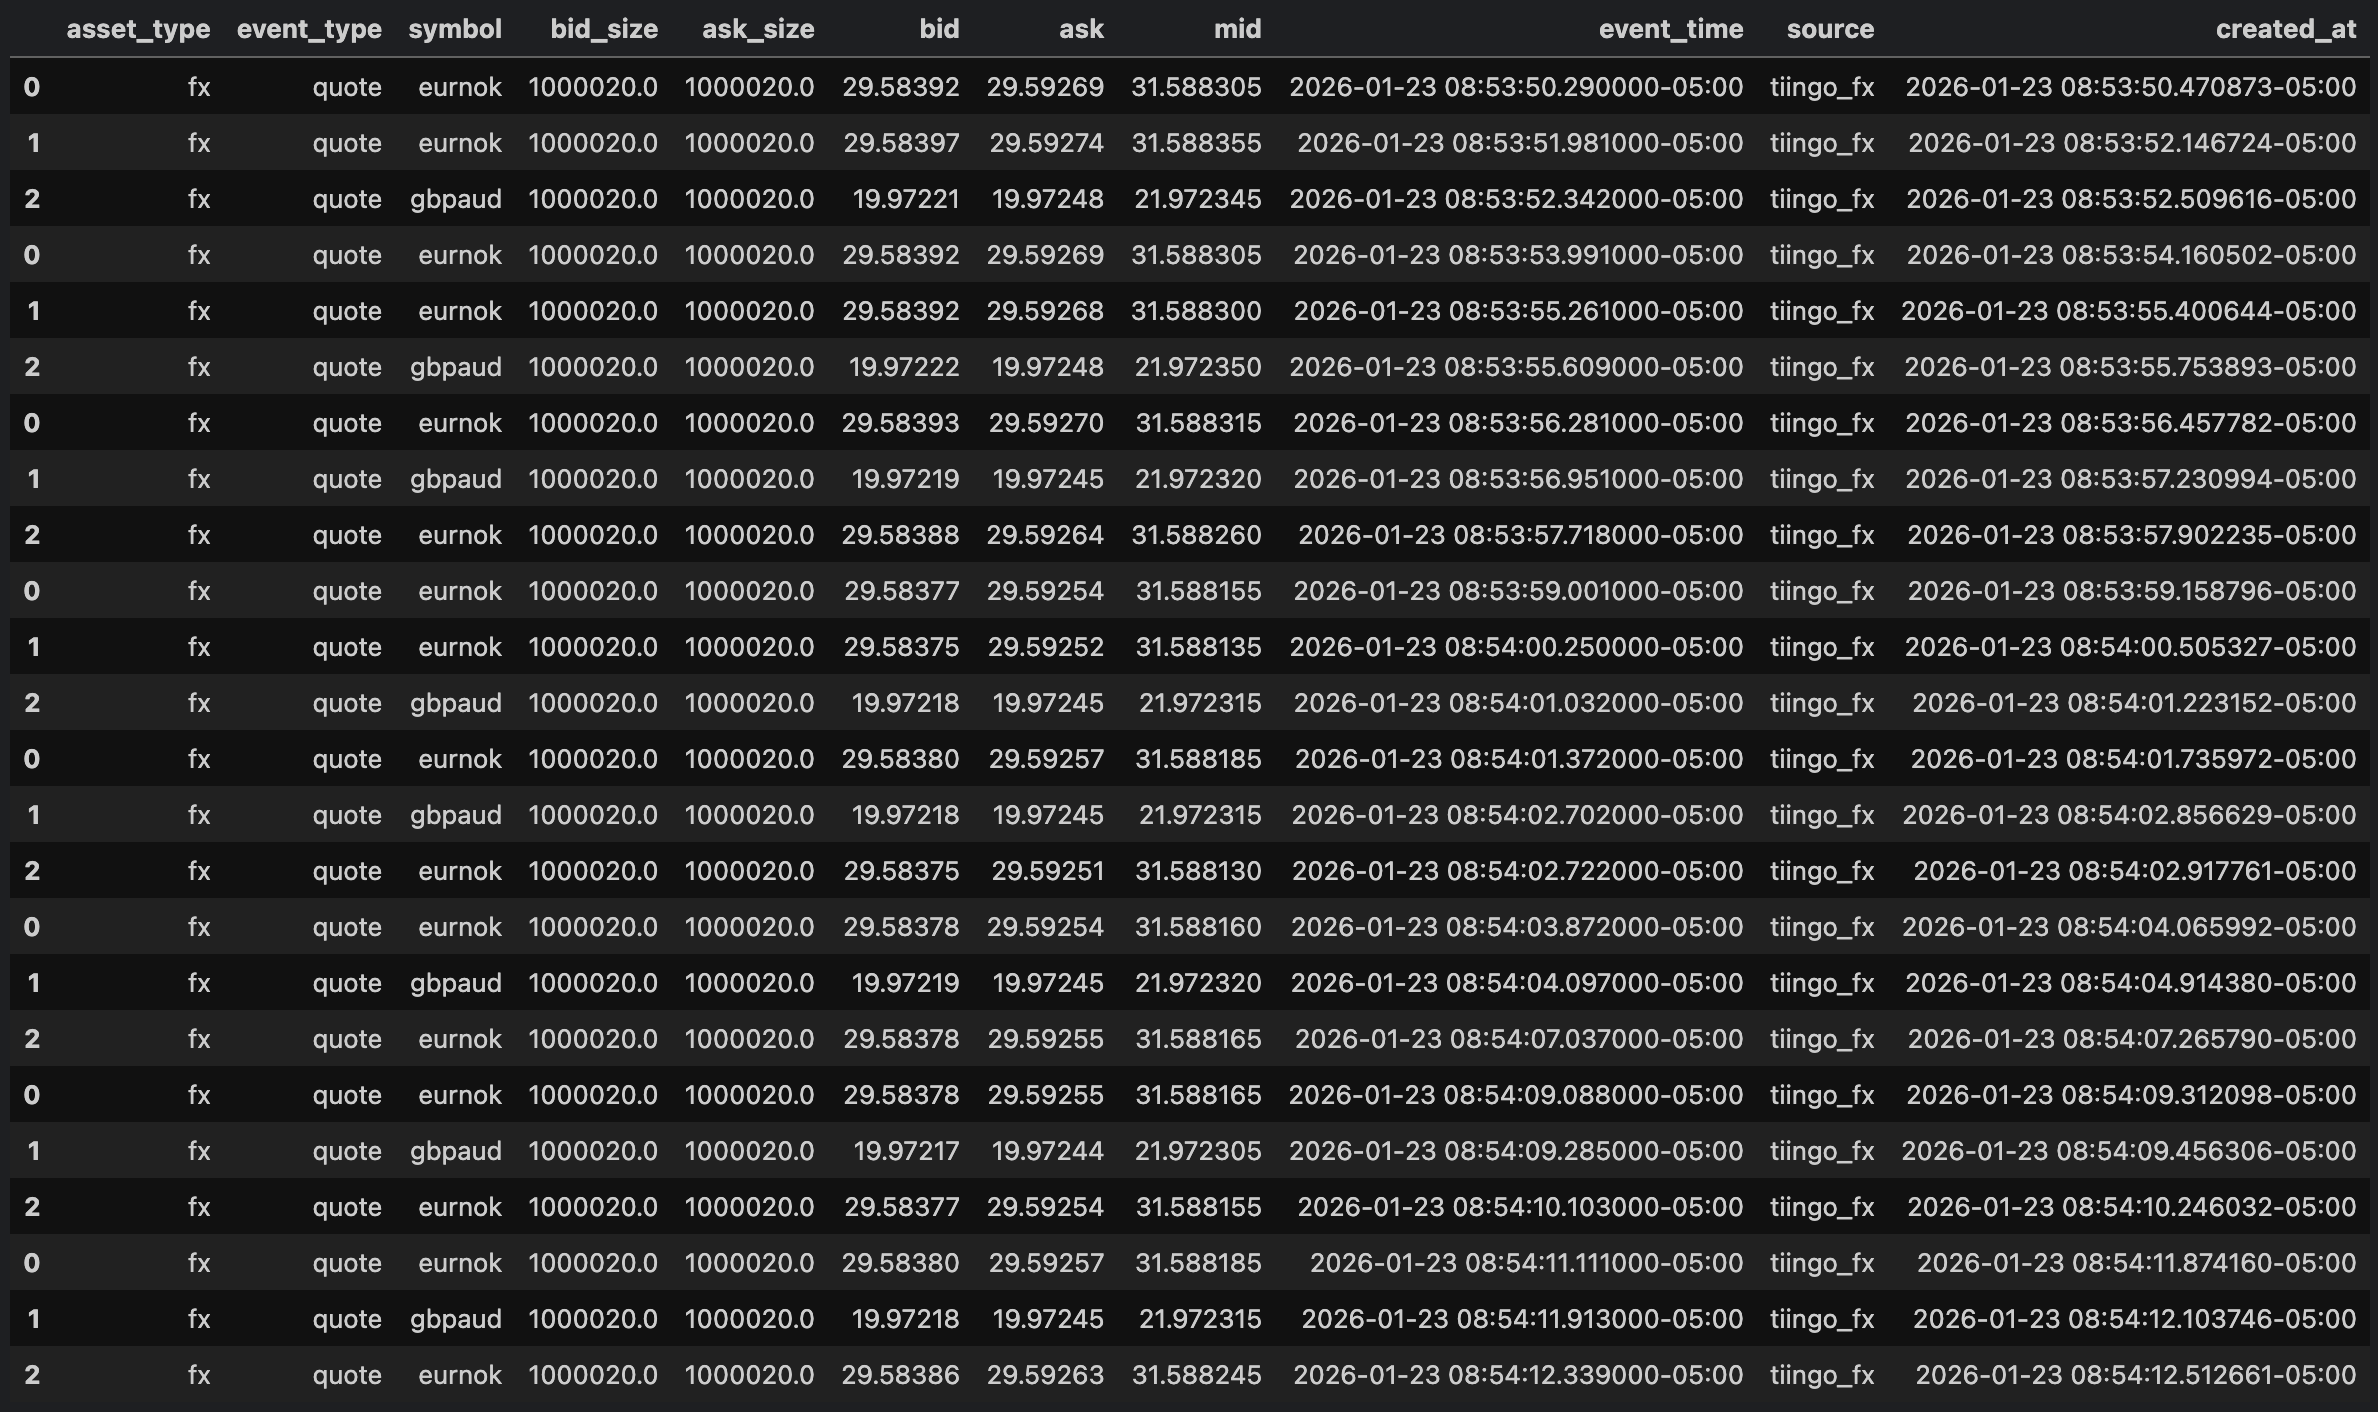
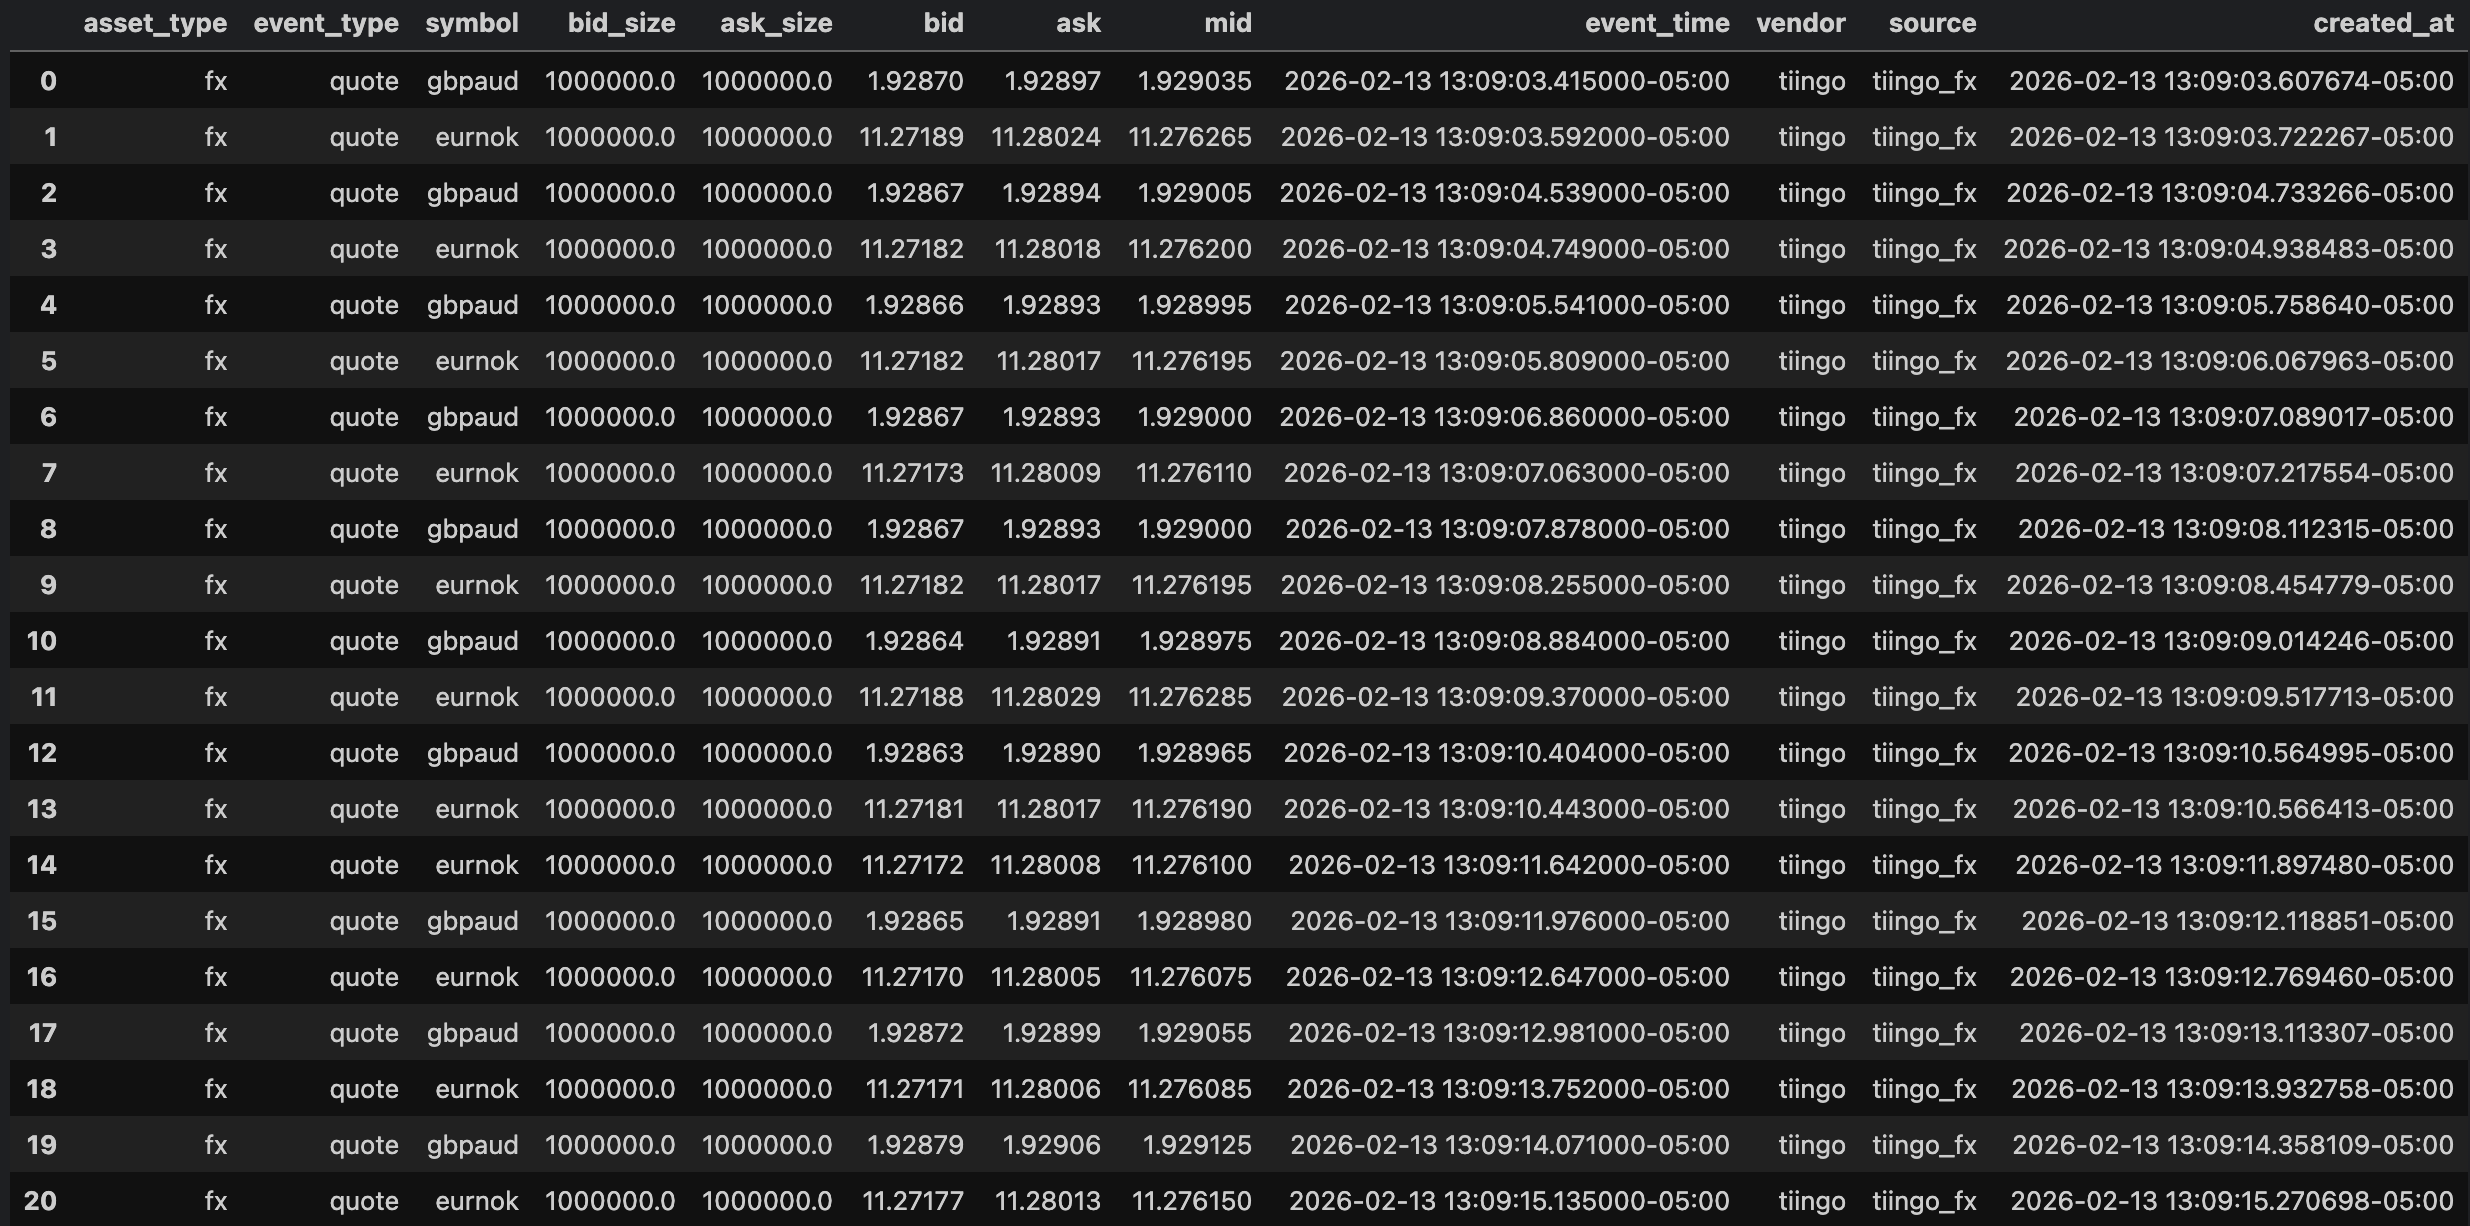
Use Parquet instead of HDF5 files. Remove dataframe usage. Update README file and assets

diff --git a/tests/core/test_raw_feed_consolidator.py b/tests/core/test_raw_feed_consolidator.py
@@ -1,47 +1,99 @@
+import os
 import unittest
 from unittest.mock import patch, AsyncMock, MagicMock
 import asyncio
-from src.core.raw_feed_consolidator import consolidate_queue, run_consolidator
+from src import constants
+from src.core.raw_feed_consolidator import consolidate_queue, run_consolidator, save_to_parquet
+
 
 class TestRawFeedConsolidator(unittest.IsolatedAsyncioTestCase):
 
+    @patch("src.core.raw_feed_consolidator.pq.write_table")
+    @patch("src.core.raw_feed_consolidator.dtt")
+    def test_save_to_parquet(self, mock_dtt, mock_write_table):
+        buffer = {
+            ("feed1", "AAPL", "2026-02-14T09:30:00"): {
+                "source": "feed1",
+                "symbol": "AAPL",
+                "event_time": "2026-02-14T09:30:00",
+                "price": 150
+            },
+            ("feed1", "GOOG", "2026-02-14T09:31:00"): {
+                "source": "feed1",
+                "symbol": "GOOG",
+                "event_time": "2026-02-14T09:31:00",
+                "price": 2700
+            }
+        }
+        pq_dir = "dummy_dir"
+        event_type = "trade"
+
+        mock_now = MagicMock()
+        mock_now.strftime.return_value = "20260214_093000_123456"
+        mock_dtt.now.return_value = mock_now
+        save_to_parquet(buffer, pq_dir, event_type)
+
+        self.assertEqual(mock_write_table.call_count, 1)
+        args, kwargs = mock_write_table.call_args
+        pq_fp = args[1]
+        self.assertIn("consol_feeds_trade_20260214_093000_123456.parquet", pq_fp)
+        self.assertTrue(kwargs["compression"] == "snappy")
+        self.assertEqual(len(buffer), 0)
+        self.assertTrue(os.path.exists(pq_dir) or True)  # safe check; actual dir may not be created in mock
+
     async def test_consolidate_queue(self):
         event_type = "trade"
-        data = {"price": 100, "volume": 10, "created_at": "ts"}
+        pq_dir = "dummy_dir"
+        buffer_size = 2
+
+        data1 = {
+            'asset_type': constants.ASSET_TYPE_STK,
+            'event_type': constants.EVENT_TYPE_REF_PX,
+            'symbol': 'AAPL',
+            'price': 10.735,
+            'vendor': 'tiingo',
+            'source': 'tiingo_iex',
+            'event_time': '2026-02-14T09:30:00',
+            'created_at': '2026-02-14T09:30:00'
+        }
+        data2 = {
+            'asset_type': constants.ASSET_TYPE_STK,
+            'event_type': constants.EVENT_TYPE_QUOTE,
+            'symbol': 'AAPL',
+            'price': 10.735,
+            'vendor': 'tiingo',
+            'source': 'tiingo_iex',
+            'event_time': '2026-02-14T09:30:00',
+            'created_at': '2026-02-14T09:30:00'
+        }
+        data3 = {
+            'asset_type': constants.ASSET_TYPE_STK,
+            'event_type': constants.EVENT_TYPE_QUOTE,
+            'symbol': 'GOOGL',
+            'price': 10.735,
+            'vendor': 'tiingo',
+            'source': 'tiingo_iex',
+            'event_time': '2026-02-14T09:30:00',
+            'created_at': '2026-02-14T09:30:00'
+        }
 
         mock_queue = AsyncMock()
         mock_queue.get = AsyncMock(side_effect=[
-            {"market_feed": data},
-            {"market_feed": data},
-            {"market_feed": data},
-            asyncio.CancelledError()  # Stop infinite loop
+            {"market_feed": data1},
+            {"market_feed": data2},
+            {"market_feed": data3},
+            asyncio.CancelledError()
         ])
         mock_queue.task_done = MagicMock()
-
-        with patch("src.core.raw_feed_consolidator.pd.DataFrame") as mock_df_class, \
-             patch("src.core.raw_feed_consolidator.dtt") as mock_datetime:
-
-            # Mock datetime
-            mock_now = MagicMock()
-            mock_now.strftime.return_value = "2026_01_01"
-            mock_datetime.now.return_value = mock_now
-
-            # Mock DataFrame instance
-            mock_df = MagicMock()
-            mock_df.columns.difference.return_value = []
-            mock_df.duplicated.return_value = []
-            mock_df.__getitem__.return_value = mock_df
-            mock_df.drop_duplicates.return_value = None
-            mock_df.to_hdf.return_value = None
-
-            mock_df_class.return_value = mock_df
+        with patch("src.core.raw_feed_consolidator.asyncio.to_thread") as mock_to_thread:
+            fut = asyncio.Future()
+            fut.set_result(None)
+            mock_to_thread.return_value = fut
 
             with self.assertRaises(asyncio.CancelledError):
-                await consolidate_queue(mock_queue, event_type, buffer_size=3)
+                await consolidate_queue(mock_queue, pq_dir=pq_dir, buffer_size=2, event_type=event_type)
 
-            mock_df_class.assert_called_once()
-            mock_df.to_hdf.assert_called_once()
-            self.assertTrue(mock_queue.task_done.called)
+            self.assertEqual(mock_to_thread.call_count, 1)
 
     async def test_run_consolidator(self):
         with patch("src.core.raw_feed_consolidator.asyncio.gather", new_callable=AsyncMock) as mock_gather:

diff --git a/src/core/raw_feed_consolidator.py b/src/core/raw_feed_consolidator.py
@@ -2,53 +2,66 @@
 Raw Feed Consolidator Module
 
 This module provides functions to consolidate market feed queues (trade, quote, reference price)
-into HDF5 files. Uses asyncio for asynchronous processing.
+into Pqrquet files. Uses asyncio for asynchronous processing.
 """
-
 import asyncio
-import pandas as pd
+import os
+from collections import defaultdict
+import pyarrow as pa
+import pyarrow.parquet as pq
 from datetime import datetime as dtt
-from src.constants import NY_TZ, EVENT_TYPE_TRADE, EVENT_TYPE_QUOTE, EVENT_TYPE_REF_PX
+
+from src import constants
+from src.constants import EVENT_TYPE_TRADE, EVENT_TYPE_QUOTE, EVENT_TYPE_REF_PX
 from src.core.queue_manager import trade_queue, quote_queue, ref_px_queue
 from src.logger import get_logger
 
 logger = get_logger(__name__)
 
-async def consolidate_queue(queue, event_type, h5_dir:str='src/data/consol_feeds/', buffer_size:int=3):
+def save_to_parquet(buffer: dict, pq_dir: str, event_type: str):
     """
-    Continuously consumes message from a queue and store them into a HDF5 file
+    Save buffered events to Parquet file
+    """
+    if not buffer:
+        logger.info("Buffer is empty, skipping save")
+        return
+    table = pa.Table.from_pylist(list(buffer.values()))
+    os.makedirs(pq_dir, exist_ok=True)
+
+    ny_time = dtt.now(constants.NY_TZ)
+    timestamp = ny_time.strftime("%Y%m%d_%H%M%S_%f")
+
+    pq_fp = os.path.join(pq_dir, f"consol_feeds_{event_type}_{timestamp}.parquet")
+    pq.write_table(table, pq_fp, compression='snappy')
+    logger.info(f'Successfully saved {len(buffer)} events to consolidated feeds file {pq_fp}')
+    buffer.clear()
+
+async def consolidate_queue(queue, event_type, pq_dir:str='src/data/consol_feeds/', buffer_size:int=30):
+    """
+    Continuously consumes message from a queue and store them into a Parquet file
     Buffers messages until buffer_size is reached, removes duplicates and
     appends data to a file named by event_type and current date
     """
     logger.info(f'Consolidating queue data for {event_type}')
-    buffer = []
+    buffers = defaultdict(dict)
 
     while True:
         try:
             data = (await queue.get())['market_feed']
             logger.debug(f'data:{data}')
-            now_ny = dtt.now(NY_TZ)
-            date_str = now_ny.strftime('%Y_%m_%d')
-            h5_fp = f'{h5_dir}consol_feeds_{event_type}_{date_str}.h5'
             if data is None:
                 logger.info('Skipping empty message')
                 continue
 
-            buffer.append(data)
-            logger.info(f'len(buffer) for {event_type}:{len(buffer)}')
+            key = (data['source'], data['symbol'], data['event_time'])
+            buffers[event_type][key] = data
+            logger.info(f'len(buffers[event_type]) for {event_type}:{len(buffers[event_type])}')
 
-            if len(buffer) >= buffer_size:
-                logger.info(f'Buffer size {len(buffer)} >= threshold {buffer_size}. Writing to {h5_fp}...')
-                df = pd.DataFrame(buffer)
-                cols_to_check = df.columns.difference(['created_at'])
-                df_dups = df[df.duplicated(subset=cols_to_check, keep=False)]
-                logger.info(f'duplicates:\n{df_dups}')
-                df.drop_duplicates(subset=cols_to_check, inplace=True)
-                df.to_hdf(h5_fp, key='mkt_feed', mode='a', format='table', append=True)
-                buffer.clear()
-                logger.info(f'Successfully updated {event_type} consolidated feeds file {h5_fp}')
+            if len(buffers[event_type]) >= buffer_size:
+                logger.info(f'Buffer size {len(buffers[event_type])} >= threshold {buffer_size}.')
+                await asyncio.to_thread(save_to_parquet, buffers[event_type], pq_dir, event_type)
         except Exception as e:
-            logger.error(f'Error saving to h5 file {e}')
+            logger.error(f'Error saving to parquet file {e}')
         finally:
             queue.task_done()
 

diff --git a/README.md b/README.md
@@ -2,7 +2,7 @@
 
 ## Description
 This project collects market data (stocks, ETFs, FX, crypto) from several vendors such as Tiingo, via websockets, webhooks (to be implemented) and async polling.\
-It performs simple data normalisation and writes consolidated event-driven feeds by event type (trade, quote, reference price) to HDF5 files for downstream analytics.
+It performs simple data normalisation and writes consolidated event-driven feeds by event type (trade, quote, reference price) to Parquet files for downstream analytics.
 
 ⚠ Designed for demonstration purposes only.\
 The main goal is to **showcase connectivity and consolidation of event-driven feeds** from multiple data sources, not to provide a production-ready system or perform data analytics.
@@ -12,12 +12,12 @@ The main goal is to **showcase connectivity and consolidation of event-driven fe
 - Buffering of incoming feeds to reduce memory overhead
 - Multi-queue design for different event types from multiple data feeds
 - Simple normalisation of feed data
-- HDF5 storage with daily partitioning by event type
+- Batch saving to Parquet storage with partitioning by event type and time
 
 ## Design Highlights
 - Async architecture demonstrates concurrent ingestion of event-driven feeds with multiple asset types
 - Python asyncio queues decouples feeds. Can be replaced with Kafka, RabbitMQ, Redis etc.
-- Daily HDF5 partitioning ensures manageable file sizes
+- Batch Parquet partitioning ensures manageable file sizes
 - Deduplication ignores created_at to preserve system ingestion timestamps
 
 ## Run / Usage
@@ -44,8 +44,8 @@ taskkill /PID <pid> /F
 ## How it Works
 - Each feed (stocks, FX, crypto) has its own async queue based on the event type (trade, quote, reference price).
 - Data is normalized before pushing to the respective queue.
-- Once the buffer reaches a threshold or on shutdown, data is flushed to HDF5 files.
-- Daily HDF5 files are named like: `consol_feeds_quote_2026_01_22.h5`.
+- Once the buffer reaches a threshold or on shutdown, data is flushed to Parquet files.
+- Parquet files are named like: `consol_feeds_quote_20260213_130922_668051.parquet`.
 
 ## Notes
 - New York timezone (America/New York) is used for timestamps for consistency
@@ -58,8 +58,8 @@ taskkill /PID <pid> /F
 - Support additional vendors and data sources
 
 ## Sample Screenshots
-### Sample HDF5 Data
-*Example HDF5 file and data shown here is **synthetic** and does not contain any real vendor data.*\
+### Sample Parquet Data
+*Example Parquet file and data shown here has been adjusted and does not contain any real vendor data.*\
 Consolidated Quotes Feeds:
 ![Consolidated Quotes Feeds Sample](assets/consol_feeds_quote.png)\
 Consolidated Trades Feeds:
